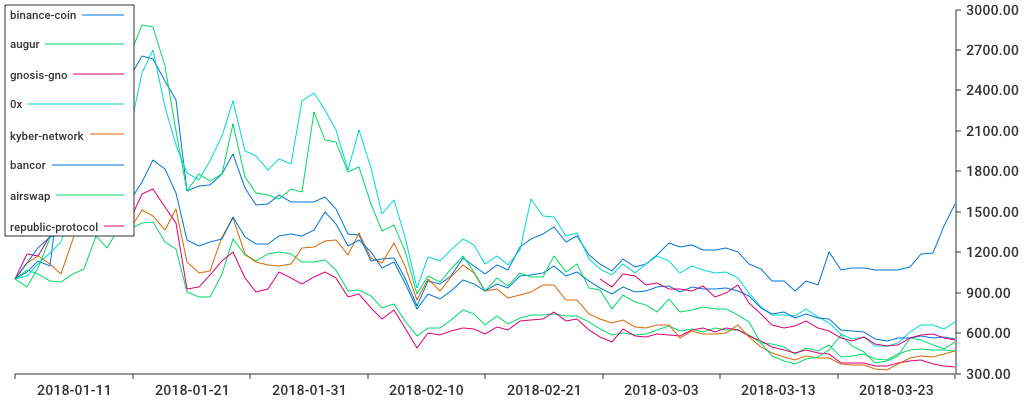
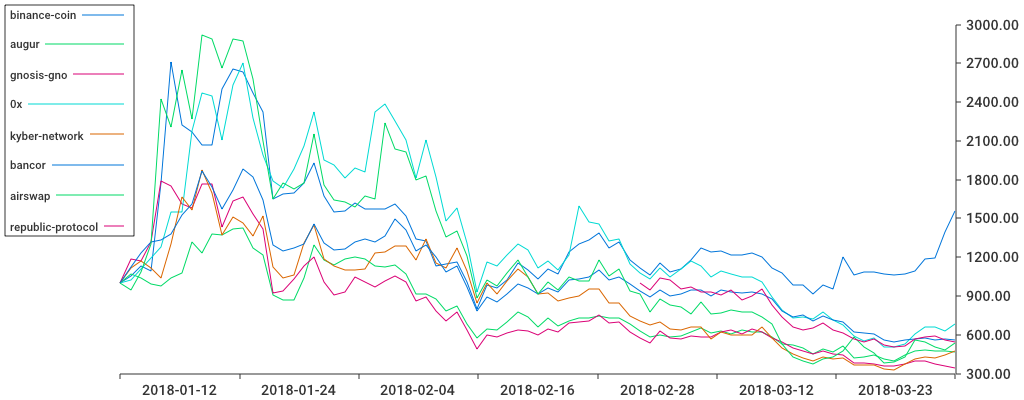
Charts updated

diff --git a/util/chart.go b/util/chart.go
@@ -201,6 +201,12 @@ func DrawPortfolioComparisonChart(investAmount float64, investDate string, compa
 			Name:  "Price ($)",
 			Style: chart.Style{Show: true},
 		},
+		Background: chart.Style{
+			Padding: chart.Box{
+				Top:  20,
+				Left: 40,
+			},
+		},
 		Series: allValuationSeries,
 	}
 
